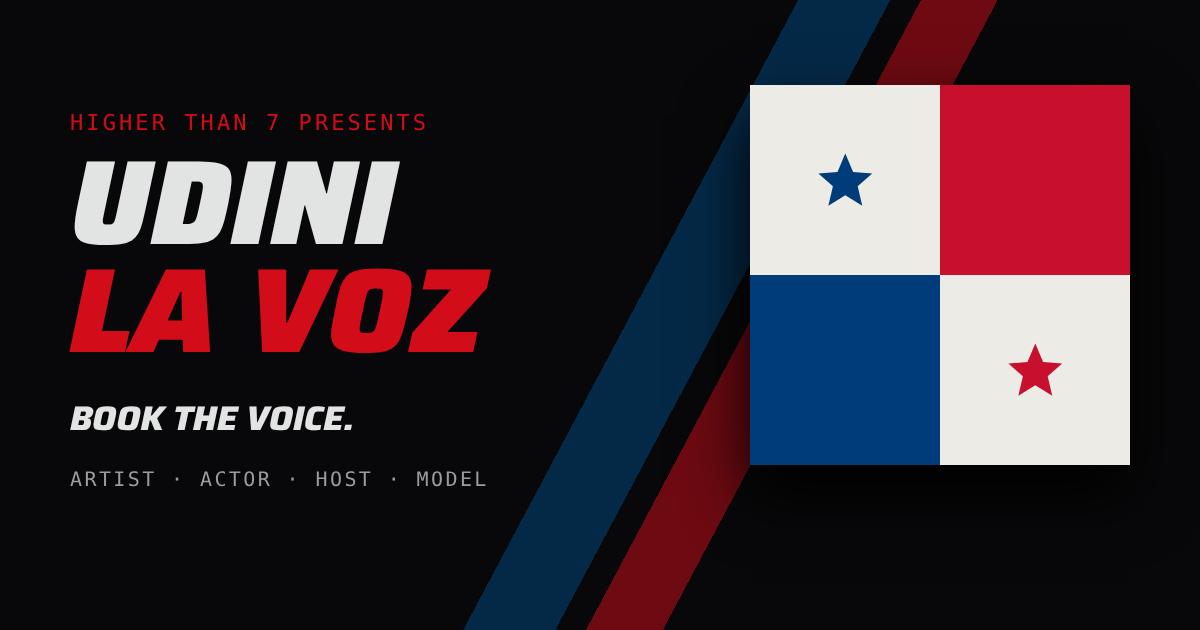
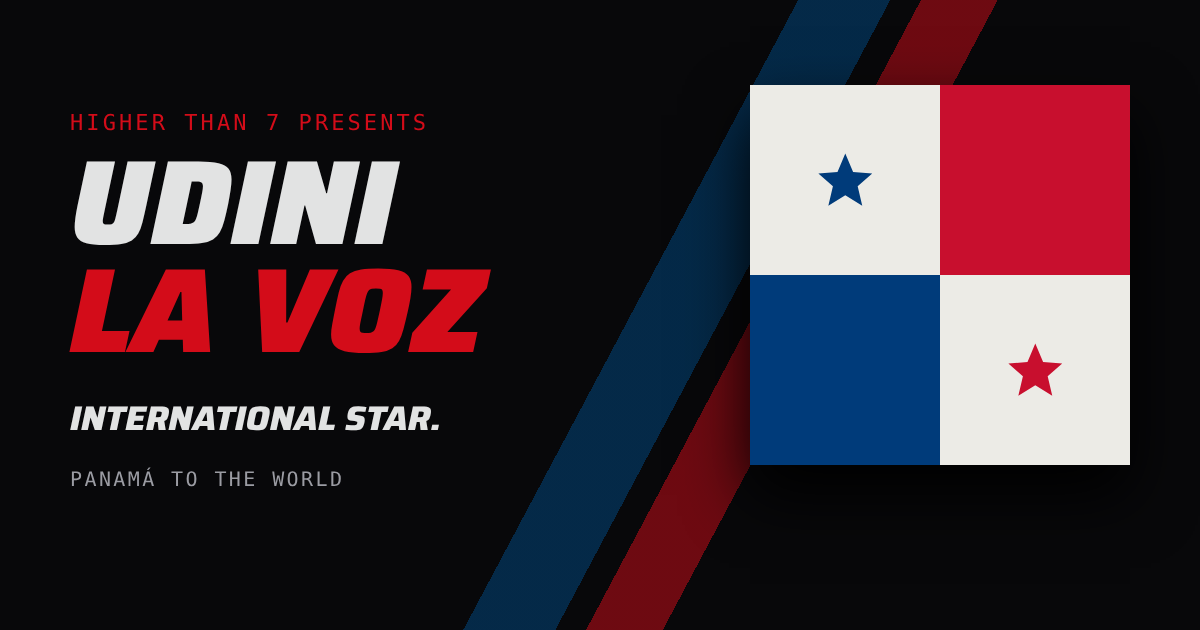
Reframe Udini La Voz page as international star; route inquiries to HT7 management
Claude-Session: https://claude.ai/code/session_01DZ3BQYmsQWcyccM3gR9GNg

diff --git a/udini.html b/udini.html
@@ -5,19 +5,19 @@
 <meta http-equiv="Content-Security-Policy" content="default-src 'self'; script-src 'self' 'unsafe-inline'; style-src 'self' 'unsafe-inline' https://fonts.googleapis.com; font-src https://fonts.gstatic.com; img-src 'self' data:; connect-src https://assets.mailerlite.com; frame-src https://open.spotify.com; form-action 'self'; base-uri 'self'; object-src 'none'">
 <meta name="referrer" content="strict-origin-when-cross-origin">
 <meta name="viewport" content="width=device-width, initial-scale=1, viewport-fit=cover">
-<meta name="description" content="Book Udini La Voz: bilingual Panamanian recording artist, actor, TV and radio host and model. Live performances, hosting, film, brand campaigns and youth programs.">
+<meta name="description" content="Udini La Voz: Panamanian international recording artist, actor, TV and radio host and model. From Panama City to the world, in Spanish and English.">
 <meta property="og:type" content="website">
 <meta property="og:site_name" content="Higher Than 7">
 <meta property="og:url" content="https://aisoundz.github.io/higherthan7/udini.html">
-<meta property="og:title" content="Book Udini La Voz">
-<meta property="og:description" content="Recording artist, actor, host and model. Live shows, hosting, film, brand campaigns and youth programs. Spanish and English.">
+<meta property="og:title" content="Udini La Voz · International Star">
+<meta property="og:description" content="From Panama City to the world. Recording artist, actor, TV and radio host and model, in Spanish and English.">
 <meta property="og:image" content="https://aisoundz.github.io/higherthan7/og-udini.png">
 <meta property="og:image:width" content="1200">
 <meta property="og:image:height" content="630">
-<meta property="og:image:alt" content="Udini La Voz, Book the voice. Recording artist, actor, host, model.">
+<meta property="og:image:alt" content="Udini La Voz, international star. Recording artist, actor, host, model.">
 <meta name="twitter:card" content="summary_large_image">
-<meta name="twitter:title" content="Book Udini La Voz">
-<meta name="twitter:description" content="Recording artist, actor, host and model. Live shows, hosting, film, brand campaigns and youth programs. Spanish and English.">
+<meta name="twitter:title" content="Udini La Voz · International Star">
+<meta name="twitter:description" content="From Panama City to the world. Recording artist, actor, TV and radio host and model, in Spanish and English.">
 <meta name="twitter:image" content="https://aisoundz.github.io/higherthan7/og-udini.png">
 <link rel="icon" type="image/png" href="icon.png">
 <link rel="apple-touch-icon" href="icon.png">
@@ -309,6 +309,11 @@ form.inq input:focus-visible,form.inq select:focus-visible,form.inq textarea:foc
 .ulv-cover-txt span{font-weight:800;font-size:clamp(26px,4vw,40px);line-height:.9}
 .ulv-cover-txt b{font-weight:900;font-size:clamp(44px,7vw,72px);line-height:.9;color:var(--red)}
 .ulv-cover-txt i{font-family:var(--mono);font-style:normal;font-size:11px;letter-spacing:.14em;color:var(--chrome);margin-top:8px}
+.story{display:grid;grid-template-columns:minmax(0,.8fr) minmax(0,1.2fr);gap:40px;align-items:start}
+.story-txt p{color:var(--steel);font-size:18px;margin:0 0 16px;max-width:62ch}
+.story-txt p:first-child{color:var(--chrome);font-size:21px}
+.quote{margin-top:24px;font-family:var(--display);font-style:italic;font-weight:900;text-transform:uppercase;font-size:clamp(26px,3.6vw,38px);line-height:1.05;color:var(--red);border-left:4px solid var(--red);padding-left:18px}
+@media (max-width:900px){.story{grid-template-columns:minmax(0,1fr);gap:16px}}
 section.tight{padding-block:0 56px;border-top:0}
 .book-grid{display:grid;grid-template-columns:repeat(3,minmax(0,1fr));gap:24px}
 .bk{border:1px solid var(--line);background:var(--panel);padding:24px;display:grid;gap:12px;align-content:start;grid-template-rows:auto auto 1fr auto}
@@ -366,20 +371,20 @@ ul.tick b{color:var(--chrome);font-weight:600}
 <header class="ulv-hero" id="top">
   <div class="wrap ulv-grid">
     <div>
-      <div class="eyebrow">International recording artist · Actor · Host · Model</div>
+      <div class="eyebrow">International star · From Panamá to the world</div>
       <h1>Udini <span class="r">La Voz</span></h1>
-      <div class="ulv-sub">Odín Palacio · Panama City, Panamá to Philadelphia</div>
-      <p>A bilingual performer who closes award shows, rocks festival stages, hosts television and radio, and has shared the screen with NBA stars. Music, culture and energy in Spanish and English. One booking brings all of it.</p>
+      <div class="ulv-sub">Recording artist · Actor · TV and radio host · Model · Entrepreneur</div>
+      <p>Born in Panama City. Built in Philadelphia. Heard in Spanish and English. Udini La Voz carries the flag of Panamá onto festival stages, film sets, national ad campaigns and the airwaves, and he brings the whole culture with him every time.</p>
       <div class="hero-ctas">
-        <a class="btn primary" href="#book">Book Udini</a>
-        <a class="btn" href="https://open.spotify.com/artist/68Ra8VCDNPrxXVn3jMsGO7" target="_blank" rel="noopener">Listen on Spotify</a>
-        <a class="btn" href="#stages">See the credits</a>
+        <a class="btn primary" href="https://open.spotify.com/artist/68Ra8VCDNPrxXVn3jMsGO7" target="_blank" rel="noopener">Listen on Spotify</a>
+        <a class="btn" href="#story">His story</a>
+        <a class="btn" href="#book">Bookings and press</a>
       </div>
       <div class="streams">
-        <span class="chip"><b>Stage</b> FIFA Fan Fest Philadelphia</span>
+        <span class="chip"><b>World stage</b> FIFA Fan Fest</span>
         <span class="chip"><b>Film</b> CREED II</span>
-        <span class="chip"><b>Brand</b> Philadelphia 76ers</span>
-        <span class="chip"><b>TV</b> Atrevete on Comcast and Fios</span>
+        <span class="chip"><b>Campaigns</b> 76ers · Hulu · AT&amp;T</span>
+        <span class="chip"><b>On air</b> TV and radio host</span>
       </div>
     </div>
     <div class="ulv-cover" aria-hidden="true">
@@ -396,55 +401,24 @@ ul.tick b{color:var(--chrome);font-weight:600}
       <div class="t"><div class="n r">3</div><div class="l">Albums plus a mixtape, with two new singles out now on Higher Than 7</div></div>
       <div class="t"><div class="n">33</div><div class="l">Live performance credits across Philadelphia, New York, New Jersey, Delaware, Maryland and Panamá</div></div>
       <div class="t"><div class="n r">7</div><div class="l">Brand and commercial campaigns, including the 76ers, Hulu, Lowe's and AT&amp;T</div></div>
-      <div class="t"><div class="n">2</div><div class="l">Languages on stage, on camera and on air</div></div>
+      <div class="t"><div class="n">2</div><div class="l">Countries he calls home: Panamá and the United States</div></div>
     </div>
   </div>
 </section>
 
-<section id="hire-ulv">
+<section id="story">
   <div class="wrap">
-    <div class="sec-head">
-      <div class="eyebrow">What you can book</div>
-      <h2>One talent. Six ways to bring him in.</h2>
-      <p class="lede">Choose what your event needs. Every request goes straight to Udini and the Higher Than 7 team, and you get a quote back with availability.</p>
-    </div>
-    <div class="book-grid">
-      <article class="bk">
-        <div class="role">Live performance</div>
-        <h3>Concerts, festivals and halftime</h3>
-        <p>High-energy urbano latino sets in Spanish and English. Built for festivals, galas, parades, sports events, clubs and private parties. Closes shows with the anthem "We Go Hard."</p>
-        <a class="btn primary" href="#book" data-type="Live performance">Book a performance</a>
-      </article>
-      <article class="bk">
-        <div class="role">Host and MC</div>
-        <h3>Bilingual host for events and media</h3>
-        <p>Former host of the Atrevete television program and a Higher Than 7 radio host on WPPM 106.5 FM. Award shows, cultural nights, conferences, livestreams and red carpets.</p>
-        <a class="btn primary" href="#book" data-type="Host or MC">Book a host</a>
-      </article>
-      <article class="bk">
-        <div class="role">Acting and on camera</div>
-        <h3>Film, TV and commercials</h3>
-        <p>Screen credits include CREED II, God Friended Me and TASK, plus national campaigns with the Philadelphia 76ers, Hulu, Lowe's and AT&amp;T.</p>
-        <a class="btn primary" href="#book" data-type="Acting or commercial">Cast Udini</a>
-      </article>
-      <article class="bk">
-        <div class="role">Modeling and brand</div>
-        <h3>Fashion shows and campaigns</h3>
-        <p>Runway and editorial work for Barrio Love Clothing, Forman Mills, D Nichole Talent and more. A natural fit for brands speaking to Latino and multicultural audiences.</p>
-        <a class="btn primary" href="#book" data-type="Modeling or brand partnership">Book for a campaign</a>
-      </article>
-      <article class="bk">
-        <div class="role">Youth programs · La Torche LLC</div>
-        <h3>Workshops that build young people</h3>
-        <p>Basketball, fitness, mindfulness, music recording and art programs for schools, youth organizations, residential facilities and special needs programs.</p>
-        <a class="btn primary" href="#book" data-type="Youth program (La Torche)">Bring La Torche in</a>
-      </article>
-      <article class="bk">
-        <div class="role">Speaking and appearances</div>
-        <h3>Culture, unity and representation</h3>
-        <p>Heritage months, Hispanic summits, campus events and community celebrations. A voice for Latino unity and Panamanian pride on stage and on the mic.</p>
-        <a class="btn primary" href="#book" data-type="Speaking or appearance">Book an appearance</a>
-      </article>
+    <div class="story">
+      <div>
+        <div class="eyebrow">The story</div>
+        <h2>A voice that crosses borders</h2>
+      </div>
+      <div class="story-txt">
+        <p>Odín Palacio grew up in Panama City, Panamá. Today, as Udini La Voz, he is a fixture of Latino entertainment from Philadelphia to New York, and his reach keeps growing.</p>
+        <p>He records in Spanish and English, and he collaborated with Michael D. Ellis, an originator of reggaeton. He has performed at the FIFA Fan Fest and Philadelphia's Fourth of July celebration, closed the Delaware Hispanic Awards, and taken the stage in Panamá. He has also appeared in CREED II and in national campaigns alongside Joel Embiid, Ben Simmons and Jay Wright.</p>
+        <p>He hosts on television and radio, walks runways, and runs his own company for young people. Everything he does carries the same message: Latino unity, Panamanian pride and a seat at the international table.</p>
+        <div class="quote">La voz de Panamá. Para el mundo.</div>
+      </div>
     </div>
   </div>
 </section>
@@ -601,7 +575,7 @@ ul.tick b{color:var(--chrome);font-weight:600}
           <span class="chip">Painting and art</span>
           <span class="chip">Special needs programming</span>
         </div>
-        <div class="cta-row"><a class="btn primary" href="#book" data-type="Youth program (La Torche)">Partner with La Torche</a></div>
+        <div class="cta-row"><a class="btn" href="#book" data-type="Youth program (La Torche)">Partner with La Torche</a></div>
       </div>
       <div class="box">
         <h3>Community leadership</h3>
@@ -617,12 +591,60 @@ ul.tick b{color:var(--chrome);font-weight:600}
   </div>
 </section>
 
+<section id="hire-ulv">
+  <div class="wrap">
+    <div class="sec-head">
+      <div class="eyebrow">Work with Udini</div>
+      <h2>Bring the star to your stage</h2>
+      <p class="lede">Festivals, brands, productions and programs work with Udini through Higher Than 7, which manages his appearances.</p>
+    </div>
+    <div class="book-grid">
+      <article class="bk">
+        <div class="role">Live performance</div>
+        <h3>Concerts, festivals and halftime</h3>
+        <p>High-energy urbano latino sets in Spanish and English. Built for festivals, galas, parades, sports events, clubs and private parties. Closes shows with the anthem "We Go Hard."</p>
+        <a class="btn primary" href="#book" data-type="Live performance">Request a performance</a>
+      </article>
+      <article class="bk">
+        <div class="role">Host and MC</div>
+        <h3>Bilingual host for events and media</h3>
+        <p>Former host of the Atrevete television program and a Higher Than 7 radio host on WPPM 106.5 FM. Award shows, cultural nights, conferences, livestreams and red carpets.</p>
+        <a class="btn primary" href="#book" data-type="Host or MC">Request a host</a>
+      </article>
+      <article class="bk">
+        <div class="role">Acting and on camera</div>
+        <h3>Film, TV and commercials</h3>
+        <p>Screen credits include CREED II, God Friended Me and TASK, plus national campaigns with the Philadelphia 76ers, Hulu, Lowe's and AT&amp;T.</p>
+        <a class="btn primary" href="#book" data-type="Acting or commercial">Casting inquiry</a>
+      </article>
+      <article class="bk">
+        <div class="role">Modeling and brand</div>
+        <h3>Fashion shows and campaigns</h3>
+        <p>Runway and editorial work for Barrio Love Clothing, Forman Mills, D Nichole Talent and more. A natural fit for brands speaking to Latino and multicultural audiences.</p>
+        <a class="btn primary" href="#book" data-type="Modeling or brand partnership">Brand inquiry</a>
+      </article>
+      <article class="bk">
+        <div class="role">Youth programs · La Torche LLC</div>
+        <h3>Workshops that build young people</h3>
+        <p>Basketball, fitness, mindfulness, music recording and art programs for schools, youth organizations, residential facilities and special needs programs.</p>
+        <a class="btn primary" href="#book" data-type="Youth program (La Torche)">Bring La Torche in</a>
+      </article>
+      <article class="bk">
+        <div class="role">Speaking and appearances</div>
+        <h3>Culture, unity and representation</h3>
+        <p>Heritage months, Hispanic summits, campus events and community celebrations. A voice for Latino unity and Panamanian pride on stage and on the mic.</p>
+        <a class="btn primary" href="#book" data-type="Speaking or appearance">Request an appearance</a>
+      </article>
+    </div>
+  </div>
+</section>
+
 <section id="book">
   <div class="wrap">
     <div class="sec-head">
-      <div class="eyebrow">Booking</div>
-      <h2>Book Udini La Voz</h2>
-      <p class="lede">Share the date, the place and what you have in mind. The form opens a ready-to-send email from your own inbox to Udini, with the Higher Than 7 team copied, so nothing gets lost.</p>
+      <div class="eyebrow">Management · Bookings · Press</div>
+      <h2>Contact Udini's team</h2>
+      <p class="lede">Bookings, press, interviews and partnerships are handled by Higher Than 7. The form opens a ready-to-send email from your own inbox, and the team replies within two business days.</p>
     </div>
     <div class="contact">
       <form class="inq" id="bkForm" novalidate>
@@ -639,6 +661,7 @@ ul.tick b{color:var(--chrome);font-weight:600}
             <option>Modeling or brand partnership</option>
             <option>Youth program (La Torche)</option>
             <option>Speaking or appearance</option>
+            <option>Press or interview</option>
             <option>Music feature or collaboration</option>
             <option>Something else</option>
           </select>
@@ -656,24 +679,23 @@ ul.tick b{color:var(--chrome);font-weight:600}
         </label>
         <label class="full">Details<textarea id="bMsg" required maxlength="3000" placeholder="What is the event, how big is the crowd, and how long should the set or appearance be?"></textarea></label>
         <div class="full" style="display:flex;flex-wrap:wrap;gap:14px;align-items:center">
-          <button class="btn primary" type="submit">Write my booking email</button>
+          <button class="btn primary" type="submit">Write my email to the team</button>
           <span class="form-status" id="bStatus" role="status" aria-live="polite"></span>
         </div>
       </form>
       <div class="side">
         <div class="box">
-          <h3>Email</h3>
-          <p>Prefer to write directly?</p>
-          <div class="email-row"><code id="ulvEmail">UdiniLaVoz@gmail.com</code><button class="copy" type="button" id="copyUlv">Copy</button></div>
+          <h3>Management</h3>
+          <p>Higher Than 7 · Anis Taylor</p>
+          <div class="email-row"><code id="ulvEmail">atsoundz@higherthan7.com</code><button class="copy" type="button" id="copyUlv">Copy</button></div>
         </div>
         <div class="box">
-          <h3>Call or text</h3>
-          <p>For promoters and venues on a tight timeline.</p>
-          <div class="email-row"><button class="btn" type="button" id="showPhone">Show phone number</button><a class="btn primary" id="phoneLink" hidden></a></div>
+          <h3>Press and media</h3>
+          <p>Interviews, features and photo requests. Choose "Press or interview" in the form.</p>
         </div>
         <div class="box">
-          <h3>Based in Philadelphia</h3>
-          <p>Performing across Pennsylvania, New York, New Jersey, Delaware, Maryland and internationally in Panamá.</p>
+          <h3>Home base</h3>
+          <p>Philadelphia, with stages across the United States and Panamá.</p>
         </div>
       </div>
     </div>
@@ -684,12 +706,12 @@ ul.tick b{color:var(--chrome);font-weight:600}
 <footer>
   <div class="wrap">
[1 lines of base64/hex data omitted]
-    <span>Higher Than 7 · <a href="https://higherthan7.com" target="_blank" rel="noopener">HigherThan7.com</a> · <a href="https://higher-than-7.printify.me" target="_blank" rel="noopener">Merch</a> · <a href="index.html#contact">Hire us</a> · <a href="ai-consulting.html">AI consulting</a> · <a href="gametime.html">Gametime licensing</a> · <a href="udini.html">Book Udini La Voz</a> · <a href="playbook.html">Playbook</a></span>
+    <span>Higher Than 7 · <a href="https://higherthan7.com" target="_blank" rel="noopener">HigherThan7.com</a> · <a href="https://higher-than-7.printify.me" target="_blank" rel="noopener">Merch</a> · <a href="index.html#contact">Hire us</a> · <a href="ai-consulting.html">AI consulting</a> · <a href="gametime.html">Gametime licensing</a> · <a href="udini.html">Udini La Voz</a> · <a href="playbook.html">Playbook</a></span>
   </div>
 <script>
 (function(){
   const $=id=>document.getElementById(id);
-  const TO='UdiniLaVoz@gmail.com', CC='atsoundz@higherthan7.com';
+  const TO='atsoundz@higherthan7.com';
   const setType=v=>{const s=$('bType');[...s.options].forEach(o=>{if(o.textContent===v)s.value=o.value})};
   document.querySelectorAll('[data-type]').forEach(a=>a.addEventListener('click',()=>setType(a.getAttribute('data-type'))));
   const ce=$('copyUlv');
@@ -697,10 +719,6 @@ ul.tick b{color:var(--chrome);font-weight:600}
     const t=$('ulvEmail').textContent;
     const sel=()=>{const r=document.createRange();r.selectNodeContents($('ulvEmail'));const s=getSelection();s.removeAllRanges();s.addRange(r)};
     try{navigator.clipboard.writeText(t).then(()=>{ce.textContent='Copied'},()=>{sel();ce.textContent='Selected'})}catch(e){sel();ce.textContent='Selected'}
-  });
-  $('showPhone').addEventListener('click',()=>{
-    const p=['267','945','2999'];const a=$('phoneLink');
-    a.href='tel:+1'+p.join('');a.textContent='Call '+p.join('-');a.hidden=false;$('showPhone').hidden=true;
   });
   const status=$('bStatus');
   const say=(t,c)=>{status.textContent=t;status.className='form-status'+(c?' '+c:'')};
@@ -713,7 +731,7 @@ ul.tick b{color:var(--chrome);font-weight:600}
     const v=id=>$(id).value.trim();
     const type=v('bType');
     const body=['Name: '+name,'Email: '+email,v('bOrg')?'Organization: '+v('bOrg'):'',v('bPhone')?'Phone: '+v('bPhone'):'','Booking type: '+type,v('bDate')?'Event date: '+v('bDate'):'',v('bWhere')?'City and venue: '+v('bWhere'):'','Budget: '+v('bBudget'),'','Details:',msg].filter(x=>x!=='').join('\n');
-    window.location.href='mailto:'+TO+'?cc='+encodeURIComponent(CC)+'&subject='+encodeURIComponent('Booking request: '+type+' from '+name)+'&body='+encodeURIComponent(body);
+    window.location.href='mailto:'+TO+'?subject='+encodeURIComponent('Udini La Voz: '+type+' from '+name)+'&body='+encodeURIComponent(body);
     say('Your email app should open with the request ready. Press send there. If nothing opened, email '+TO+' directly.','ok');
   });
 })();

diff --git a/index.html b/index.html
@@ -408,7 +408,7 @@ form.inq input:focus-visible,form.inq select:focus-visible,form.inq textarea:foc
     </div>
     <div class="bundle">
       <div><strong>Get both singles · $2.58</strong><div class="note" style="margin:4px 0 0">Buy We Go Hard (Latino) and Amo A Mi Panamá on iTunes or Amazon, then follow Udini La Voz on Spotify.</div></div>
-      <div class="btns"><a class="btn primary" href="https://open.spotify.com/artist/68Ra8VCDNPrxXVn3jMsGO7" target="_blank" rel="noopener">Follow on Spotify</a><a class="btn" href="udini.html">Meet and book Udini La Voz</a></div>
+      <div class="btns"><a class="btn primary" href="https://open.spotify.com/artist/68Ra8VCDNPrxXVn3jMsGO7" target="_blank" rel="noopener">Follow on Spotify</a><a class="btn" href="udini.html">Meet Udini La Voz</a></div>
     </div>
   </div>
 </section>
@@ -730,7 +730,7 @@ form.inq input:focus-visible,form.inq select:focus-visible,form.inq textarea:foc
 <footer>
   <div class="wrap">
[1 lines of base64/hex data omitted]
-    <span>Higher Than 7 · <a href="https://higherthan7.com" target="_blank" rel="noopener">HigherThan7.com</a> · <a href="https://higher-than-7.printify.me" target="_blank" rel="noopener">Merch</a> · <a href="index.html#contact">Hire us</a> · <a href="ai-consulting.html">AI consulting</a> · <a href="gametime.html">Gametime licensing</a> · <a href="udini.html">Book Udini La Voz</a> · <a href="playbook.html">Playbook</a></span>
+    <span>Higher Than 7 · <a href="https://higherthan7.com" target="_blank" rel="noopener">HigherThan7.com</a> · <a href="https://higher-than-7.printify.me" target="_blank" rel="noopener">Merch</a> · <a href="index.html#contact">Hire us</a> · <a href="ai-consulting.html">AI consulting</a> · <a href="gametime.html">Gametime licensing</a> · <a href="udini.html">Udini La Voz</a> · <a href="playbook.html">Playbook</a></span>
   </div>
 </footer>
 <script>

diff --git a/ai-consulting.html b/ai-consulting.html
@@ -483,7 +483,7 @@ form.inq input:focus-visible,form.inq select:focus-visible,form.inq textarea:foc
 <footer>
   <div class="wrap">
[1 lines of base64/hex data omitted]
-    <span>Higher Than 7 · <a href="https://higherthan7.com" target="_blank" rel="noopener">HigherThan7.com</a> · <a href="https://higher-than-7.printify.me" target="_blank" rel="noopener">Merch</a> · <a href="index.html#contact">Hire us</a> · <a href="ai-consulting.html">AI consulting</a> · <a href="gametime.html">Gametime licensing</a> · <a href="udini.html">Book Udini La Voz</a> · <a href="playbook.html">Playbook</a></span>
+    <span>Higher Than 7 · <a href="https://higherthan7.com" target="_blank" rel="noopener">HigherThan7.com</a> · <a href="https://higher-than-7.printify.me" target="_blank" rel="noopener">Merch</a> · <a href="index.html#contact">Hire us</a> · <a href="ai-consulting.html">AI consulting</a> · <a href="gametime.html">Gametime licensing</a> · <a href="udini.html">Udini La Voz</a> · <a href="playbook.html">Playbook</a></span>
   </div>
 </footer>
 <script>

diff --git a/gametime.html b/gametime.html
@@ -440,7 +440,7 @@ form.inq input:focus-visible,form.inq select:focus-visible,form.inq textarea:foc
 <footer>
   <div class="wrap">
[1 lines of base64/hex data omitted]
-    <span>Higher Than 7 · <a href="https://higherthan7.com" target="_blank" rel="noopener">HigherThan7.com</a> · <a href="https://higher-than-7.printify.me" target="_blank" rel="noopener">Merch</a> · <a href="index.html#contact">Hire us</a> · <a href="ai-consulting.html">AI consulting</a> · <a href="gametime.html">Gametime licensing</a> · <a href="udini.html">Book Udini La Voz</a> · <a href="playbook.html">Playbook</a></span>
+    <span>Higher Than 7 · <a href="https://higherthan7.com" target="_blank" rel="noopener">HigherThan7.com</a> · <a href="https://higher-than-7.printify.me" target="_blank" rel="noopener">Merch</a> · <a href="index.html#contact">Hire us</a> · <a href="ai-consulting.html">AI consulting</a> · <a href="gametime.html">Gametime licensing</a> · <a href="udini.html">Udini La Voz</a> · <a href="playbook.html">Playbook</a></span>
   </div>
 </footer>
 <script>

diff --git a/playbook.html b/playbook.html
@@ -411,7 +411,7 @@ form.inq input:focus-visible,form.inq select:focus-visible,form.inq textarea:foc
 <footer>
   <div class="wrap">
[1 lines of base64/hex data omitted]
-    <span>Higher Than 7 · <a href="https://higherthan7.com" target="_blank" rel="noopener">HigherThan7.com</a> · <a href="https://higher-than-7.printify.me" target="_blank" rel="noopener">Merch</a> · <a href="index.html#contact">Hire us</a> · <a href="ai-consulting.html">AI consulting</a> · <a href="gametime.html">Gametime licensing</a> · <a href="udini.html">Book Udini La Voz</a> · <a href="playbook.html">Playbook</a></span>
+    <span>Higher Than 7 · <a href="https://higherthan7.com" target="_blank" rel="noopener">HigherThan7.com</a> · <a href="https://higher-than-7.printify.me" target="_blank" rel="noopener">Merch</a> · <a href="index.html#contact">Hire us</a> · <a href="ai-consulting.html">AI consulting</a> · <a href="gametime.html">Gametime licensing</a> · <a href="udini.html">Udini La Voz</a> · <a href="playbook.html">Playbook</a></span>
   </div>
 </footer>
 <script>
